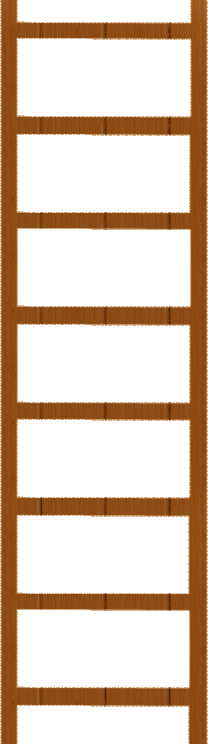
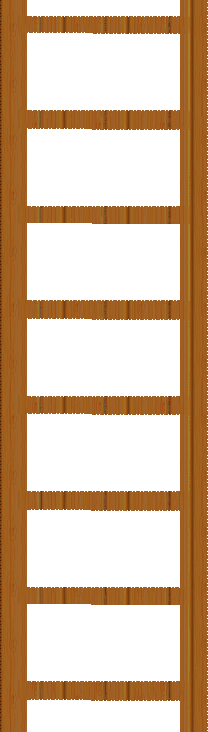
insert new cards after reset

diff --git a/main.js b/main.js
@@ -23,7 +23,7 @@ var front_images = [
      "images/card-fronts/sanfran-card.png"
  ];
 
-var gameArea = $("#game-area");
+
 
 /*
  Actions
@@ -31,6 +31,8 @@ var gameArea = $("#game-area");
 
 //Start
 $(function(){
+    var gameArea = $("#game-area");
+
     // Dynamically add cards to page
     gameArea.prepend(place_cards());
 
@@ -42,6 +44,7 @@ $(function(){
     //When reset button is clicked run reset function & move ladder
     $("#btn-reset").click(function(){
         reset();
+
     });
 
     //Assign random Member # to display in stats book
@@ -69,12 +72,10 @@ function place_cards() {
                 class: "front"
             });
         var img_index = Math.floor(Math.random() * front_images_copy.length);
-        console.log(i + "  " + img_index);
         var $front_img = $("<img>", {
                 src: front_images_copy[img_index] //inputted from front_images array
             });
         front_images_copy.splice(img_index, 1);
-        console.log(front_images_copy);
         var $card_back = $("<div>", {
                 class: "back"
             });
@@ -112,11 +113,9 @@ function card_clicked(element){
             first_card_clicked = img_source(element);//find & assign card front source
             //Add class to card to mark it for future functions
             $(element).addClass("card_flipped card1").parent().removeClass("wiggle");
-            console.log(first_card_clicked);
             return first_card_clicked;
         } else {
             second_card_clicked = img_source(element);
-            console.log(second_card_clicked);
             attempts++;
             //run card_match function
             var matching = card_match(first_card_clicked, second_card_clicked);
@@ -139,12 +138,11 @@ function card_clicked(element){
 function card_match(card1, card2) {
     if (card1 == card2) {
         match_counter++;//increment match_counter
-        console.log(match_counter);
         //run winning function
         winning(match_counter);
         return true;
     } else {
-        $(".back").delay(150).fadeIn(0); //2.5sec delay
+        $(".back").delay(300).fadeIn(0);
         first_card_clicked = null;
         second_card_clicked = null;
     }
@@ -162,7 +160,6 @@ function winning(counter){
         games_won++;
         // activate the win screen
         $("#winner").addClass("win");
-        console.log("Winner!");
     } else{
         first_card_clicked = null;
         second_card_clicked = null;
@@ -185,14 +182,17 @@ function img_source(element){
  */
 function reset(){
     games_played++; //increment number of games started
-    //move ladder across screen
-    $("#ladder").animate({right: "73vw"}, 500);
-    //Remove cards & reset card backs to show
-    $(".card_flipped").removeClass("card_flipped card1");
-    $(".card").delay(500).fadeOut(0).delay(100).fadeIn(550).find(".back").fadeIn(200);
-    $("#ladder").animate({right: "0"}, 500);
     //Remove win screen if activated
     $("#winner").removeClass("win");
+    //move ladder across screen & insert new cards
+    $("#ladder").animate({right: "73vw"}, 500).delay(100).animate({right: "0"}, 500, (function(){
+        $(".card").remove();
+        place_cards();
+    }));
+    //Remove cards & reset card backs to show
+    $(".card_flipped").removeClass("card_flipped card1");
+    $(".card").delay(200).fadeOut(200).delay(100).fadeIn(550).find(".back").fadeIn(200);
+
     //reset values to those originally assigned
     first_card_clicked = null;
     second_card_clicked = null;
